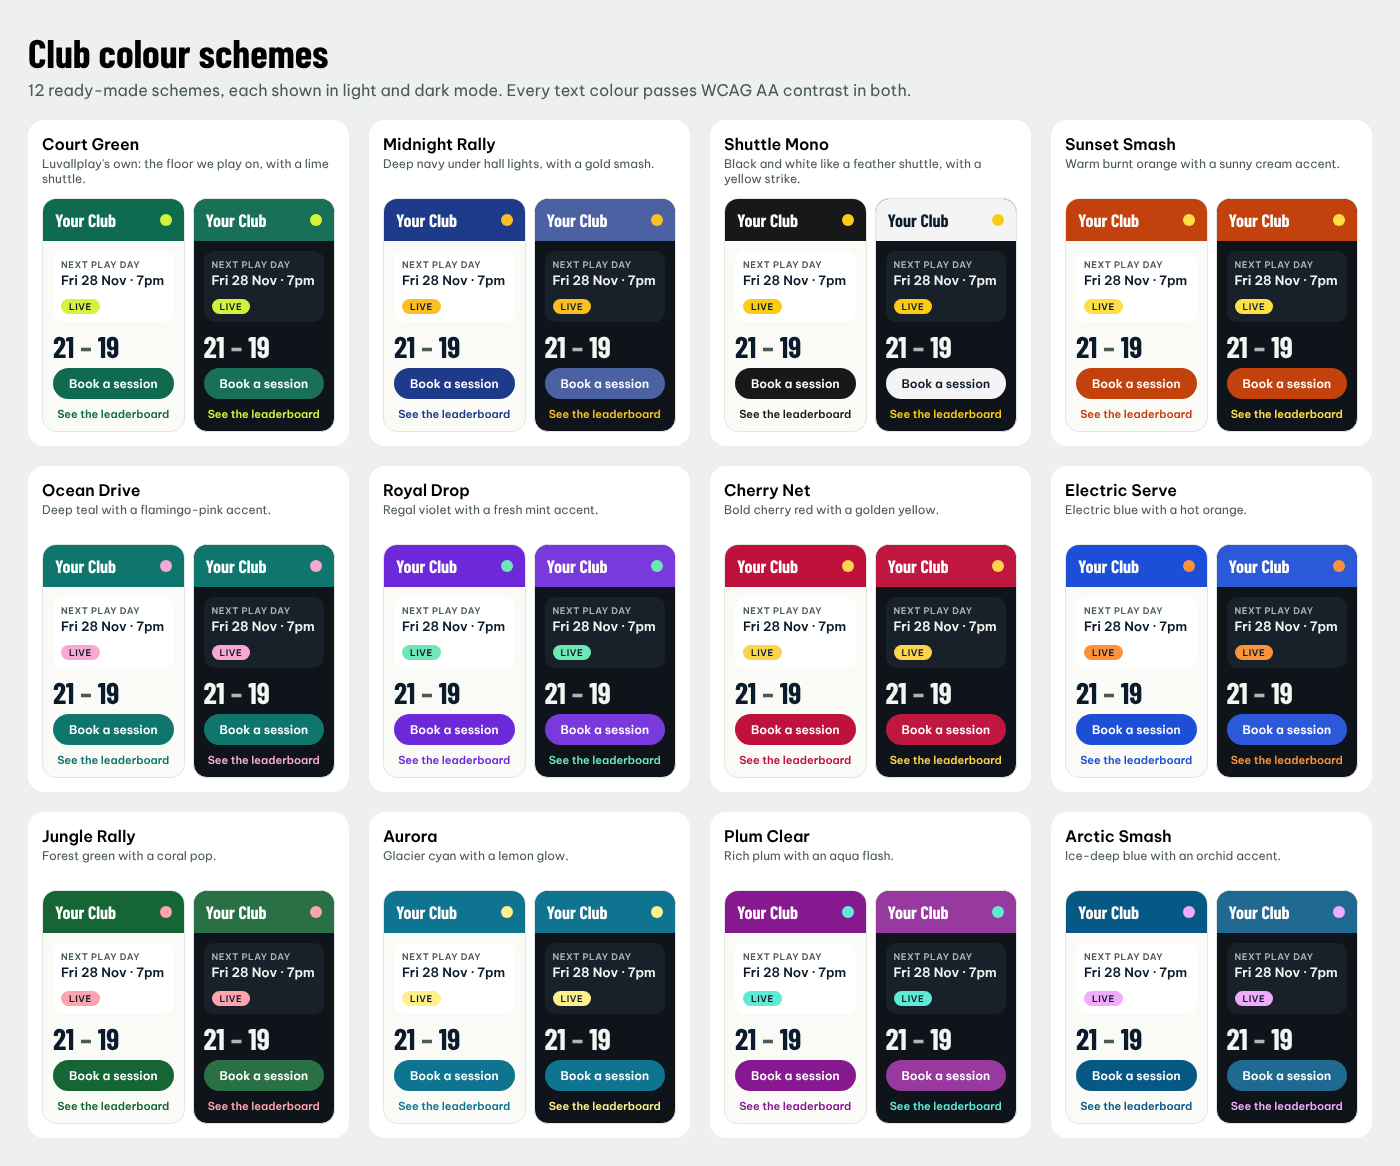
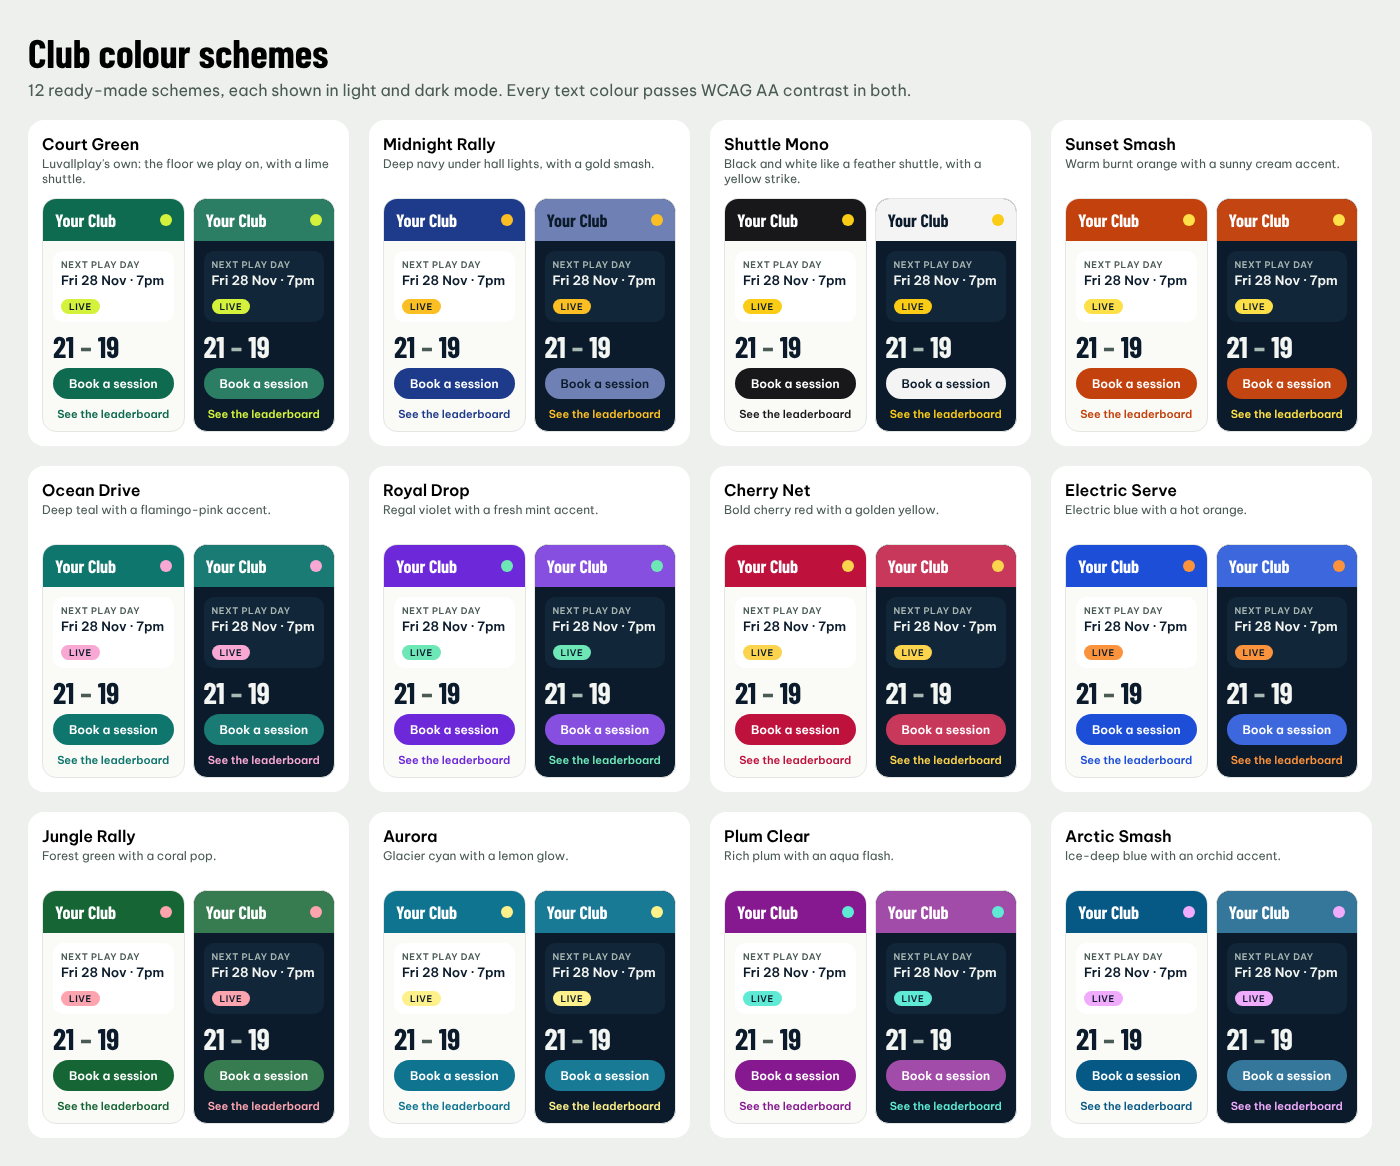
Plan: Luvallplay introduction website, multi-sport positioning, scheme fix
- New 7.4: bilingual (EN/VI), sport-neutral intro site on luvallplay.org,
  built from the brand system; can start now as a parallel track with a
  waitlist, switches to launch mode with the Phase 6 wizard.
- Decisions Q (multi-sport, badminton first) and R (intro site).
- 7.1 now describes the new heart-in-bloom logo; design system is the
  source of truth.
- Colour schemes: dark-mode fills are now checked against the brand's
  real dark grounds (surface and surface-raised); Midnight Rally keeps its
  hue in dark mode. Brand dark court-green aligned to #2b7d64.

Claude-Session: https://claude.ai/code/session_01VKw9bScKzqdS5mtGqFhmeQ

diff --git a/docs/plans/assets/club-color-schemes.py b/docs/plans/assets/club-color-schemes.py
@@ -3,7 +3,10 @@ Each scheme gets a dark-mode primary and is checked against the WCAG AA contrast
 Run: python3 docs/plans/assets/club-color-schemes.py"""
 import json, os
 HERE = os.path.dirname(os.path.abspath(__file__))
-INK="#0b1b2b"; WHITE="#ffffff"; LIGHT_BG="#fafaf7"; DARK_BG="#0e1419"
+# Grounds come from the Luvallplay brand system: surface / surface-raised in each theme.
+INK="#0b1b2b"; WHITE="#ffffff"; LIGHT_BG="#fafaf7"; LIGHT_RAISED="#ffffff"
+DARK_BG="#0b1b2b"; DARK_RAISED="#12263a"
+def worst(c, grounds): return min(cr(c,g) for g in grounds)
 def hx(h): h=h.lstrip('#'); return [int(h[i:i+2],16) for i in (0,2,4)]
 def to(c): return "#%02x%02x%02x"%tuple(max(0,min(255,round(v))) for v in c)
 def L(h):
@@ -31,15 +34,21 @@ for sid,name,desc,p,a in SCHEMES:
     on_p = WHITE if cr(WHITE,p)>=4.5 else INK
     # dark theme: lighten primary until it stands off the dark ground (3:1)
     pd=p; t=0
-    while cr(pd,DARK_BG)<3 and t<1: t+=0.02; pd=mix(p,WHITE,t)
-    # A near-black primary would only turn grey; monochrome schemes flip to a light fill with ink text instead.
-    if t > 0.25: pd = "#f4f4f5"
+    while worst(pd,(DARK_BG,DARK_RAISED))<3 and t<1: t+=0.02; pd=mix(p,WHITE,t)
+    # Too dark to lift a little: a monochrome scheme flips to a light fill; a coloured one keeps its hue
+    # as a lighter tint carrying ink text.
+    if t > 0.25:
+        rgb = hx(p); sat = (max(rgb) - min(rgb)) / 255
+        if sat < 0.15:
+            pd = "#f4f4f5"
+        else:
+            while cr(INK, pd) < 4.5 and t < 1: t += 0.02; pd = mix(p, WHITE, t)
     on_pd = WHITE if cr(WHITE,pd)>=4.5 else INK
     on_a = INK
     checks={"on-primary/primary":cr(on_p,p),"primary/light-bg":cr(p,LIGHT_BG),"on-primary-dark/primary-dark":cr(on_pd,pd),
-            "primary-dark/dark-bg":cr(pd,DARK_BG),"ink/accent":cr(on_a,a),"accent/dark-bg":cr(a,DARK_BG),"primary-text-link/light-bg":cr(p,LIGHT_BG)}
+            "primary-dark/dark-grounds":worst(pd,(DARK_BG,DARK_RAISED)),"ink/accent":cr(on_a,a),"accent/dark-grounds":worst(a,(DARK_BG,DARK_RAISED)),"primary-text-link/light-grounds":worst(p,(LIGHT_BG,LIGHT_RAISED))}
     for k,v in checks.items():
-        need=3 if k in("primary-dark/dark-bg","accent/dark-bg") else 4.5
+        need=3 if k in("primary-dark/dark-grounds","accent/dark-grounds") else 4.5
         if v<need: problems.append((sid,k,round(v,2)))
     out.append({"id":sid,"name":name,"description":desc,
       "light":{"primary":p,"onPrimary":on_p,"accent":a,"onAccent":on_a},

diff --git a/docs/plans/luvallplay-build-plan.md b/docs/plans/luvallplay-build-plan.md
@@ -23,6 +23,8 @@ Status: **draft for review** (22 Nov 2026). Items marked **🟡 Decision** need 
 - **N: bring your own brand.** Clubs can import their own logo, font and colour palette, or pull them from their existing website (§6.3.2).
 - **O: online payments only for incorporated clubs with their own Stripe account.** Setup asks both questions; every other paying club is set up for cash and bank transfer only, with an admin area built for that (§6.2.2). Three Wolves never collects or passes on money for other clubs (Stripe forbids it, and it would make the collector a regulated money-transfer business under NZ's AML/CFT Act).
 - **P: a small core admin; everything else is a module.** The core is only what a free, no-money club needs to run play days. Every other admin area is a module that can be turned on or off during setup, by the club's owners, or by Luvallplay's platform admins (§6.2.3).
+- **Q: Luvallplay is a multi-sport platform, with badminton first.** Product and marketing words stay sport-neutral where they can ("session", "game", "court or field"). Badminton-specific features (Arena terms, Vision) are modules that other sports can adapt later.
+- **R: a Luvallplay introduction website** in English and Vietnamese, multi-sport, following the brand system (§7.4). It can be built now, in parallel with the app work.
 
 **Testing:** every phase passes the gates in [`luvallplay-test-plan.md`](./luvallplay-test-plan.md) before production. The data guard that proves no one lost access or data is already built (`scripts/data-guard/`).
 
@@ -562,7 +564,7 @@ New clubs pick one in the wizard. Each is a primary colour (headers, buttons) pl
 | Scheme | Primary | Accent | Feel |
 |---|---|---|---|
 | **Court Green** (default) | `#0E6B4F` | `#D4F23C` | Luvallplay's own: the court with a lime shuttle |
-| **Midnight Rally** | `#1E3A8A` | `#FBBF24` | Deep navy under hall lights, gold smash |
+| **Midnight Rally** | `#1E3A8A` | `#FBBF24` | Deep navy under hall lights, gold smash (dark mode uses a lighter blue with dark text) |
 | **Shuttle Mono** | `#18181B` | `#FACC15` | Black and white like a feather shuttle, yellow strike (flips to white buttons in dark mode) |
 | **Sunset Smash** | `#C2410C` | `#FDE047` | Burnt orange with sunny yellow |
 | **Ocean Drive** | `#0F766E` | `#F9A8D4` | Deep teal with flamingo pink |
@@ -575,7 +577,7 @@ New clubs pick one in the wizard. Each is a primary colour (headers, buttons) pl
 | **Arctic Smash** | `#075985` | `#F0ABFC` | Ice-deep blue with orchid |
 
 - The wizard shows each scheme live on the club's own name, a play-day card and a button, in light and dark, before the club picks.
-- Neutrals (backgrounds, text, borders) are shared across schemes, so every scheme stays readable.
+- Neutrals (backgrounds, text, borders) are shared across schemes, so every scheme stays readable. Dark-mode colours are checked against the brand system's real dark grounds (`surface` #0B1B2B and `surface-raised` #12263A), so fills stand off both at ≥ 3:1.
 - More schemes can be added later as data (one entry in the JSON), with the same automated contrast check in CI.
 
 #### 6.3.2 Bring your own brand
@@ -649,9 +651,11 @@ Each step is rehearsed on a Neon branch of production, behind a feature flag, wi
 
 Name: **Luvallplay**. Domain to buy: **luvallplay.org** (+ .com, .nz). The brand lives in the **Luvallplay brand** design system: https://claude.ai/artifact/7do36zHNvLp3pFdNUC7euj (logo files, app icon, colour and type tokens, voice and usage rules). It's private until you share it.
 
-- **Mark:** a shuttlecock that is also a heart. The cork is the heart's tip, and three feather spines plus the binding band fan into the lobes. "Luv" + badminton in one shape that still reads at 16px.
-- **Wordmark:** custom lowercase **luvallplay** in round-ended single strokes, matching the app's line icons.
-- **App icon:** a Smash Lime heart-shuttle on a full-bleed Court Green square.
+The design system is the source of truth. If anything here differs from it, the design system wins.
+
+- **Mark: a heart in bloom.** A Rally Coral heart sits where four rounded Court Green petals meet (lime petals on dark grounds). The petals read as four players around a court and as a shuttle's feathers; the heart is the "love" in love all. It works for any sport.
+- **Wordmark:** lowercase **luvallplay** in Montserrat Alternates ExtraBold, outlined in the logo files (never retyped). Side-by-side, stacked and one-colour versions exist.
+- **App icon:** lime petals and a coral heart on a full-bleed Court Green square.
 
 | Token | Colour | Use |
 |---|---|---|
@@ -694,6 +698,66 @@ All palettes are validated for WCAG AA in light and dark. Clubs choose from 12 t
 - Templates render in the club's theme (preset or imported brand), so every template works with every scheme.
 - The site's job is to explain the club, show the schedule, prices and gallery, and turn visitors into players through **Join in the app** and **Book a casual session**.
 - For free-play clubs the price section becomes a clear **"Free to play: just turn up"** block, and the call to action is **Sign up for a play day**.
+
+### 7.4 Luvallplay introduction website (luvallplay.org)
+
+A public website that introduces Luvallplay to clubs, organisers and players. It's in **English and Vietnamese**, built to impress, and **sport-neutral**: Luvallplay starts with badminton but is useful to any club that runs regular sessions.
+
+**Can start now.** It only needs the brand system and the domain, so it's a parallel track and doesn't wait for Phases 3–6. Before the app is public it runs in **"coming soon"** mode with a sign-up form. It switches to full launch mode (Start your club, Find a club, store badges) when the setup wizard ships in Phase 6.
+
+**Positioning and voice:**
+- **Headline idea:** **"Love all, play."** The call that starts a game in badminton, tennis, squash and table tennis, read here as an invitation: everyone is welcome, come and play.
+- **One-line promise:** *"The free app for clubs and players. Run your sessions, welcome everyone, and play more."*
+- **Sport-neutral words:** session, game, court or field, team, members. Sport-specific examples rotate:
+  - racquet sports: badminton, pickleball, tennis, table tennis, squash;
+  - team sports: volleyball, futsal, basketball, netball;
+  - social sport generally.
+- Badminton is described as where Luvallplay started (Three Wolves), not as the limit.
+- Voice from the brand book: warm, direct, short sentences, sentence case, no emoji in headings. The brand book's "badminton words" rule is relaxed here; the brand book's Voice section should be updated to say so.
+
+**Brand (strictly from the design system):**
+- Logo files as provided: the side-by-side lockup in the header, the stacked lockup in the footer, and the dark versions on Net Navy sections.
+- Colours: `court-green` for primary actions, `smash-lime` as the one accent per screen, `rally-coral` only around the heart and social moments, and `surface` / `surface-raised` / `ink` for the page. Light and dark themes.
+- Type: **Barlow Condensed** (`display-xl` for the hero) and **Be Vietnam Pro** for all body text. It covers Vietnamese fully.
+- Shape: pill buttons, `radius-lg` cards, flat surfaces with `line` dividers, a visible `focus` ring, and 150–250ms springy motion that respects reduced motion.
+
+**Page sections, in order:**
+
+| Section | Content | How it's made attractive |
+|---|---|---|
+| **Hero** | "Love all, play." + the one-line promise. **Start your club, it's free** and **Find a club** (before launch: **Join the waitlist**) | A big `display-xl` headline on Court Green. The **lines-of-play motif**: the court-line pattern generalised to field markings that redraw from one sport to the next (badminton court → tennis → futsal pitch → volleyball) in thin `court-line` strokes, with a still image when reduced motion is on. Real community photos in rounded frames |
+| **Sports strip** | Chips: Badminton · Pickleball · Tennis · Table tennis · Volleyball · Futsal · Basketball · +more | Picking a sport swaps the photos and example wording across the page |
+| **How it works** | 3 steps: *Set up your club in 5 minutes* → *Invite your players* → *Play* | Large numerals in `score` style; short sentences |
+| **Everything your club needs** | Sessions and sign-ups, waitlists, attendance, members, messages, a club website. The optional modules shown as an "add what you need" grid | Product screenshots in phone and tablet frames, **each in a different club colour scheme**, to show off the 12 schemes |
+| **Free, the way clubs need it** | Free play, cash and bank transfer, or online payments for incorporated clubs. No platform fees today | Three cards that mirror the setup choices |
+| **Make it yours** | 12 colour schemes or your own logo, fonts and colours | An interactive scheme picker that re-colours a sample club card live |
+| **For players** | One account for every club, your stats and streaks, find a club nearby; the marketplace and social "coming soon" | A device mock with the Me page |
+| **Safe and fair** | Clubs manage their own members, safeguarding across the platform, 16+, your club owns its data, NZ privacy law | Calm `surface-raised` cards with line icons |
+| **Story** | "Started at Three Wolves in Christchurch", with a quote (with the club's consent) | Photo with the club's colours as a co-brand moment |
+| **FAQ** | Cost, payments, sports supported, languages, data ownership, getting incorporated | Accordion; FAQ structured data |
+| **Footer** | Stacked lockup, language switch, App Store / Google Play badges ("coming soon" until launch), legal, contact, "A product of The GOAT Solution" | Net Navy section with dark-theme logo |
+
+**English and Vietnamese:**
+- Every word, image alt text, meta tag and social preview image exists in both languages.
+- URLs are `/en/…` and `/vi/…` with `hreflang` links, so search engines show the right one. The first visit picks the browser's language, and a visible switch remembers the choice.
+- Vietnamese copy is written natively and reviewed by a Vietnamese speaker (not machine-translated), and layouts are checked for its longer lines.
+
+**Build:**
+- Lives in `apps/web` and is served for the `luvallplay.org` host (+ `.com`/`.nz` redirects) through the same host routing as club sites (§6.4).
+- Content comes from Sanity, per decision D (Luvallplay's own marketing content), with `en`/`vi` fields.
+- Pages are statically generated.
+- The **waitlist/interest form** asks for email, name, club, sport, city and role (organiser or player). It uses Turnstile spam protection and double opt-in by email, and is stored in Postgres with consent recorded.
+- Privacy-friendly analytics only, with no tracking cookies.
+- Structured data for Organization, SoftwareApplication and FAQPage, plus Open Graph images per language.
+- Targets: Lighthouse ≥ 95 on all four scores, WCAG AA in both themes and both languages.
+
+**Imagery:** real, diverse community sport in NZ halls and parks across several sports, licensed or commissioned (a small photo shoot with Three Wolves and one or two partner clubs is ideal). No stock "business people with rackets". Product screenshots come from the real app with demo data.
+
+**Done when:**
+- Both languages are complete.
+- The waitlist works end to end.
+- It passes the test plan gate for the intro site.
+- It's live on luvallplay.org.
 
 ---
 
@@ -742,7 +806,8 @@ Wk  3–6   Phase 2  Monorepo, Next 16, Neon+Drizzle, module skeleton, design to
 Wk  6–11  Phase 3  Multi-tenant core + Three Wolves migration (ship, invisible to members)
 Wk 10–14  Phase 4  Player app as SPA on new API (ship as PWA at app.luvallplay.com)
 Wk 13–17  Phase 5  Capacitor, native features, compliance, TestFlight / Play testing → store launch
-Wk 16–20  Phase 6  Brand, platform site, club templates, wizard, Admin → Modules (onboard 1–2 pilot clubs)
+Wk  3–7   Track R  Luvallplay introduction website (EN + VI, "coming soon" + waitlist) on luvallplay.org (§7.4)
+Wk 16–20  Phase 6  Platform site in launch mode, club templates, wizard, Admin → Modules (onboard 1–2 pilot clubs)
 Wk 20+    Phase 7  Find a club → Global leaderboards → Social → Marketplace
 ```
 

diff --git a/docs/plans/luvallplay-test-plan.md b/docs/plans/luvallplay-test-plan.md
@@ -386,6 +386,7 @@ On every pull request, and required before merging to `main`:
 | 3 Multi-tenant | Isolation suite, permission matrix, shadow reads clean for 7 days, data guard clean, Stripe reconciliation, characterisation check |
 | 4 API-driven app | Contract tests, old-client tests, offline tests |
 | 5 Store apps | Device matrix, upgrade test, in-app purchase sandbox, store checklist, beta feedback |
+| R Intro website | Every page complete in English and Vietnamese (an automated check finds no missing translation, alt text or meta tag), `hreflang` correct, language switch remembered. Visual snapshots of both languages at every width in light and dark. Lighthouse ≥ 95, axe clean. Waitlist: Turnstile, double opt-in, consent stored, duplicates handled, nothing sent from previews. No tracking cookies. Reduced-motion fallback for the hero |
 | 6 Brand, sites, wizard | S1–S6, the payment-mode × admin-area table in build plan §6.2.2 as an automated test, every colour scheme passes contrast and visual checks, brand upload security tests, Lighthouse ≥ 95, accessibility clean, custom-domain tests |
 | 7 Global modules | Opt-in/out tests, moderation and safeguarding flows (16+ only), marketplace X1, abuse reports |
 
